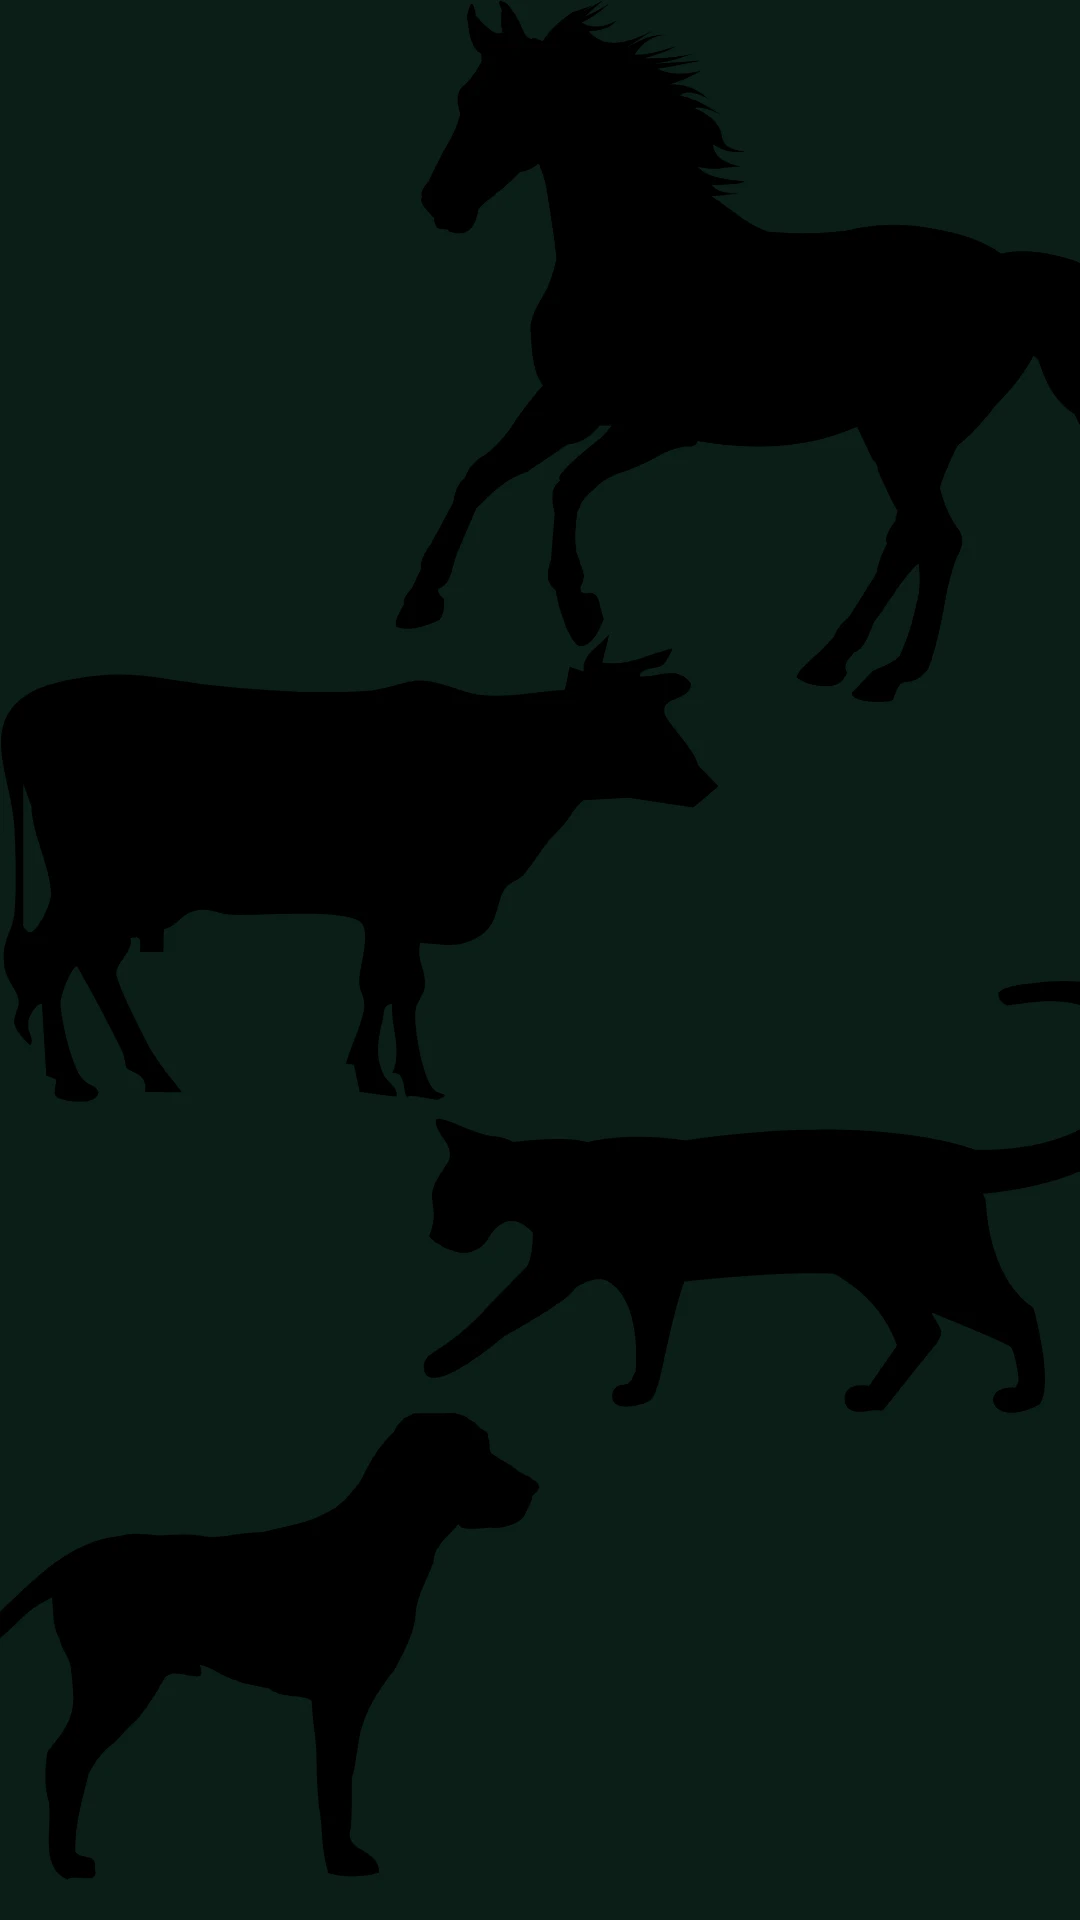
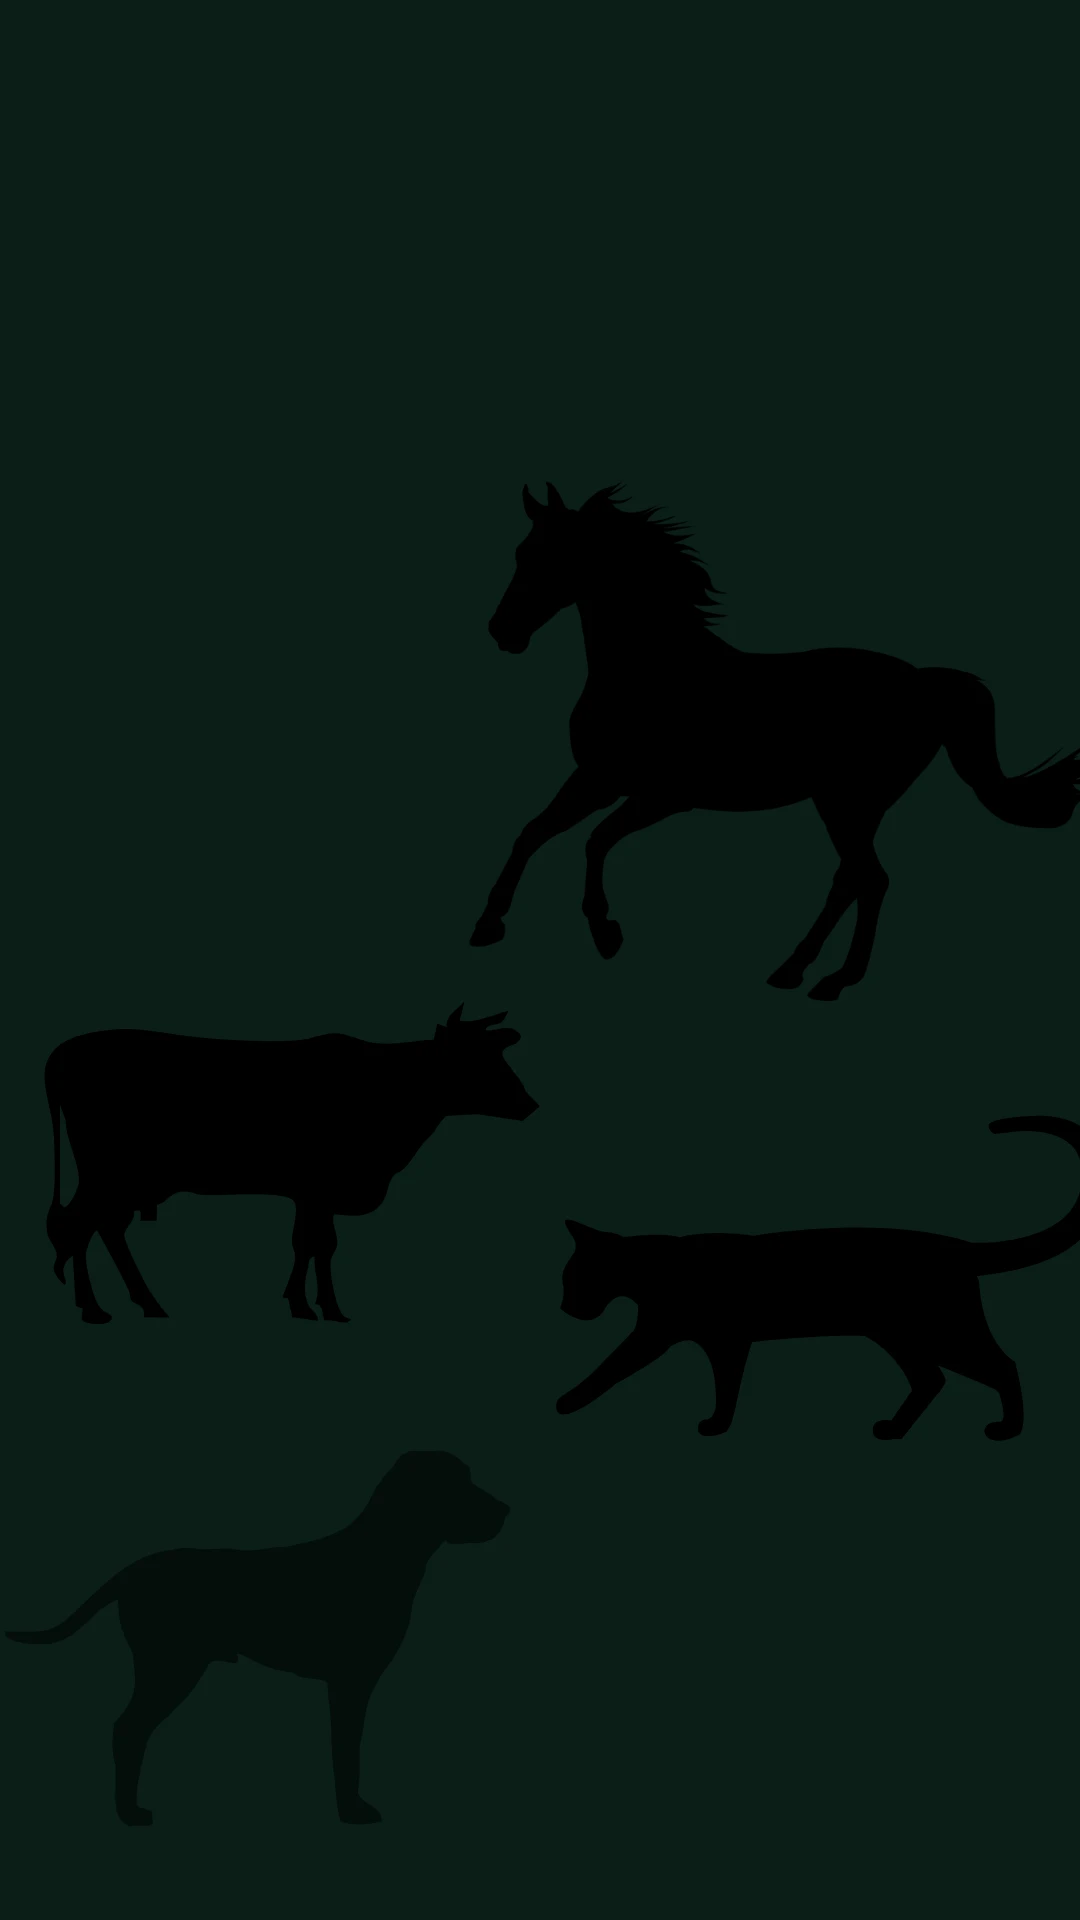
opacidad

diff --git a/lib/main.dart b/lib/main.dart
@@ -66,7 +66,7 @@ class GalmedicApp extends StatelessWidget {
               children: [
                 Positioned.fill(
                   child: Opacity(
-                    opacity: 0.7,
+                    opacity: 0.15,
                     child: Image.asset(
                       'assets/images/fondo_animales.webp',
                       fit: BoxFit.cover,